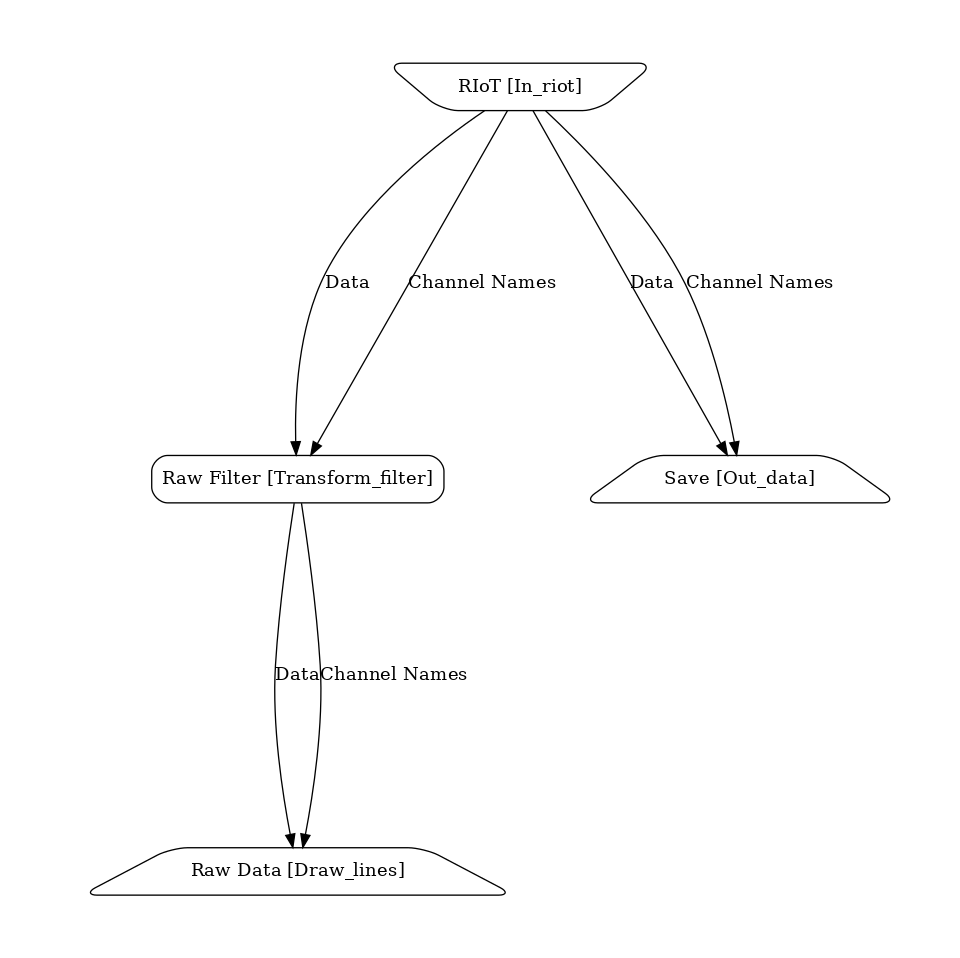
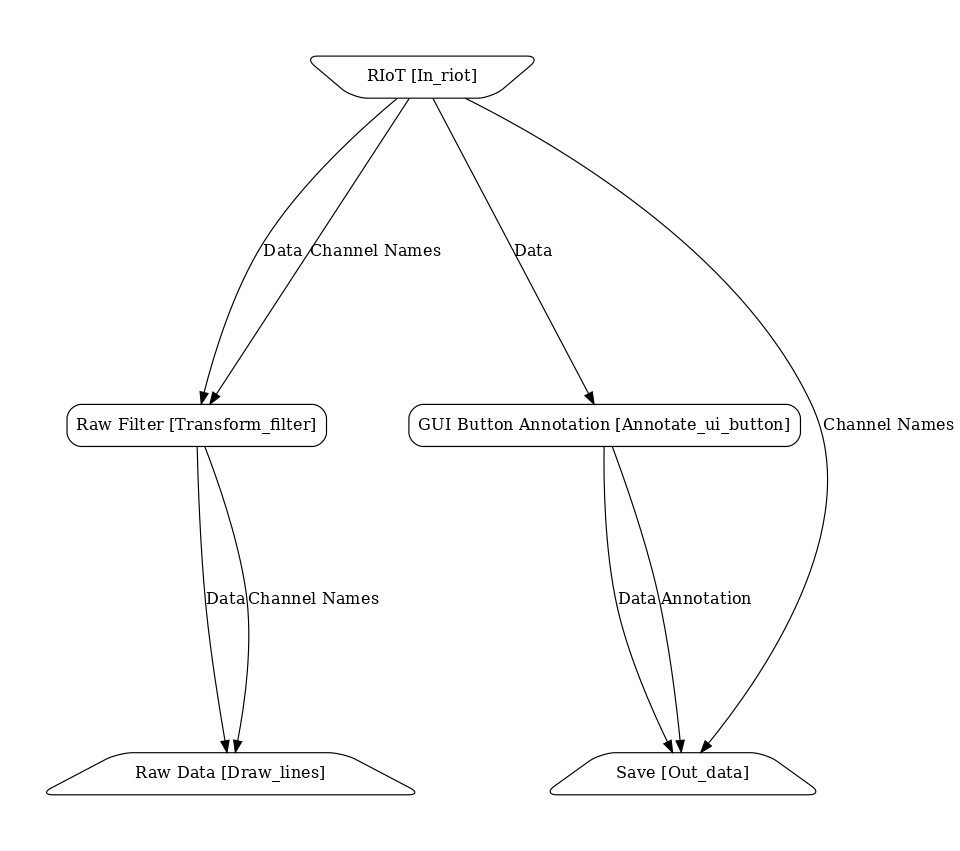
wip on button click annotation, annotation works, but changing target does not

diff --git a/src/nodes/annotate_ui_button.py b/src/nodes/annotate_ui_button.py
@@ -1,0 +1,95 @@
+import numpy as np
+import multiprocessing as mp
+
+from .node import Node
+
+from matplotlib.widgets import TextBox, Button
+
+class Annotate_ui_button(Node):
+    def __init__(self, fall_back_target="Unknown", name = "GUI Button Annotation", dont_time = False):
+        super().__init__(name=name, dont_time=dont_time)
+
+        self.target_q = mp.Queue()
+        self.fall_back_target = fall_back_target
+        
+        self.annot_target = "Test"
+        self.current_target = fall_back_target
+        self.recording = False
+
+    @staticmethod
+    def info():
+        return {
+            "class": "Annotate_ui_button",
+            "file": "Annotate_ui_button.py",
+            "in": ["Data"],
+            "out": ["Data" "Annotation"],
+            "init": {}, #TODO!
+            "category": "Annotation"
+        }
+    
+    def _get_setup(self):
+        """
+        Get the Nodes setup settings.
+        Primarily used for serialization from json files.
+        """
+        return { \
+            "name": self.name,
+            "fall_back_target": self.fall_back_target
+        }
+    
+        
+    @property
+    def in_map(self):
+        return {
+            "Data": self.receive_data
+        }
+
+    def receive_data(self, data_frame, **kwargs):
+        # IMPORTANT: we assume that the length of data_frame is always short enough that we do not care about timing issues with the label
+        self.send_data(data_frame)
+
+        while not self.target_q.empty():
+            self.fall_back_target, self.current_target = self.target_q.get()
+
+        self.send_data([self.current_target] * len(data_frame), data_stream="Annotation")
+        
+
+    def __activity_toggle_rec(self, event):
+        if self.recording:
+            # Stop recording 
+            self.bnext.label.set_text('Start')
+            self.target_q.put((self.fall_back_target, self.fall_back_target))
+        else:
+            # Start recording
+            self.bnext.label.set_text('Stop')
+            self.target_q.put((self.fall_back_target, self.annot_target))
+
+        self.recording = not self.recording
+
+    def __update_fallback(self, text):
+        self.fall_back_target = text
+        self.target_q.put((self.fall_back_target, self.annot_target))
+
+    def __update_annot(self, text):
+        self.annot_target = text
+
+    def init_draw(self, subfig):
+        subfig.suptitle("Annotate", fontsize=14)
+
+        axes = subfig.subplots(3, 1, sharex=True)
+
+        target_default = TextBox(axes[0], 'Fallback:', initial=self.fall_back_target)
+        target_default.on_submit(self.__update_fallback)
+
+        target_annotate = TextBox(axes[1], 'Recognize:', initial=self.fall_back_target)
+        target_annotate.on_submit(self.__update_annot)
+
+        self.bnext = Button(axes[2], 'Start')
+        self.bnext.label.set_fontsize(20)
+        self.bnext.on_clicked(self.__activity_toggle_rec)
+
+        def update (**kwargs):
+            nonlocal axes
+            return axes
+
+        return update

diff --git a/src/nodes/out_data.py b/src/nodes/out_data.py
@@ -44,13 +44,15 @@ class Out_data(Node):
         self.outputDataset = None
         self._wait_queue = mp.Queue()
 
+        self.outputFileAnnotation = None
+        self.last_annotation = None
        
     @staticmethod
     def info():
         return {
             "class": "out_data",
             "file": "out_data.py",
-            "in": ["Data", "Channel Names", "Meta"],
+            "in": ["Data", "Channel Names", "Meta", "Annotation"],
             "out": [],
             "init": {}, #TODO!
             "category": "Save"
@@ -60,7 +62,9 @@ class Out_data(Node):
     def in_map(self):
         return {
             "Data": self.receive_data,
-            "Channel Names": self.receive_channels
+            "Channel Names": self.receive_channels,
+            "Meta": self.receive_meta,
+            "Annotation": self.receive_annotation,
         }
 
     
@@ -81,12 +85,28 @@ class Out_data(Node):
             self.outputDataset.resize(self.outputDataset.shape[0] + len(data_frame), axis = 0)
             self.outputDataset[-len(data_frame):] = data_frame
 
+    def receive_annotation(self, data_frame, **kwargs):
+        # For now lets assume the file is always open before this is called.
+        # TODO: re-consider that assumption
+        if self.last_annotation is None:
+            self.last_annotation = (data_frame[0], 0, 0)
+        
+        for annotation in data_frame:
+            if annotation == self.last_annotation[0]:
+                self.last_annotation = (annotation, self.last_annotation[1], self.last_annotation[2] + 1)
+            else:
+                self.outputFileAnnotation.write(f"{self.last_annotation[1]}, {self.last_annotation[2]}, {self.last_annotation[0]} \n")
+                self.last_annotation = (annotation, self.last_annotation[2] + 1, self.last_annotation[2] + 1)
+
+
+
     def start_processing(self, recurse=True):
         """
         Starts the streaming process.
         """
         if self.outputFile is None:
             self.outputFile = h5py.File(self.outputFilename + '.h5', 'w')
+            self.outputFileAnnotation = open(f"{self.outputFilename}.csv", "w")
         super().start_processing(recurse)
         
     def stop_processing(self, recurse=True):
@@ -96,8 +116,11 @@ class Out_data(Node):
         super().stop_processing(recurse)
         if self.outputFile is not None:
             self.outputFile.close()
+            self.outputFileAnnotation.write(f"{self.last_annotation[1]}, {self.last_annotation[2]}, {self.last_annotation[0]}")
+            self.outputFileAnnotation.close()
         self.outputFile = None
         self.outputDataset = None
+        self.outputFileAnnotation = None
 
 
     def _read_meta(self):

diff --git a/create_pipeline.py b/create_pipeline.py
@@ -1,4 +1,6 @@
 from src.nodes.annotate_channel import Annotate_channel
+from src.nodes.annotate_ui_button import Annotate_ui_button
+
 from src.nodes.draw_search_graph import Draw_search_graph
 from src.nodes.transform_scale import Transform_scale
 from src.nodes.log_data import Log_data
@@ -299,8 +301,12 @@ if __name__ == "__main__":
     pl = add_riot_draw(pl)
     save(pl, "pipelines/riot_vis.json")
 
+    annot = Annotate_ui_button('Unknown')
+    pl.add_output(annot)
+
     out_data = Out_data(folder="./data/Debug/")
-    pl.add_output(out_data)
+    annot.add_output(out_data)
+    annot.add_output(out_data, data_stream="Annotation", recv_data_stream="Annotation")
     pl.add_output(out_data, data_stream="Channel Names", recv_data_stream="Channel Names")
     save(pl, "pipelines/riot_record.json")
 

diff --git a/main.py b/main.py
@@ -1,5 +1,4 @@
 from matplotlib import animation
-from src.nodes.blit import BlitManager
 
 from src.nodes.node import Node, activate_timing
 
@@ -64,7 +63,6 @@ subfigs = np.array(subfigs).flatten()
 
 # artists = np.concatenate([setup_fn(subfig) for setup_fn, subfig in zip(draws, subfigs)])
 artists = [setup_fn(subfig) for setup_fn, subfig in zip(draws, subfigs)]
-# bm = BlitManager(fig.canvas, artists)
 
 # plt.show(block=False)
 # plt.pause(.1)

diff --git a/src/nodes/draw_lines.py b/src/nodes/draw_lines.py
@@ -3,7 +3,6 @@ from queue import Queue
 from tkinter import N
 import numpy as np
 
-from .blit import BlitManager
 from .node import Node
 
 import matplotlib.patches as mpatches

diff --git a/run_pipeline.py b/run_pipeline.py
@@ -1,5 +1,4 @@
 from matplotlib import animation
-from src.nodes.blit import BlitManager
 
 from src.nodes.node import Node, activate_timing
 

diff --git a/src/nodes/draw_gmm.py b/src/nodes/draw_gmm.py
@@ -1,7 +1,6 @@
 import collections
 import numpy as np
 
-from .blit import BlitManager
 from .node import Node
 
 import time

diff --git a/src/nodes/draw_recognition.py b/src/nodes/draw_recognition.py
@@ -1,7 +1,6 @@
 import collections
 import numpy as np
 
-from .blit import BlitManager
 from .node import Node
 
 import time

diff --git a/src/nodes/draw_search_graph.py b/src/nodes/draw_search_graph.py
@@ -1,7 +1,6 @@
 import collections
 import numpy as np
 
-from .blit import BlitManager
 from .node import Node
 
 import time
